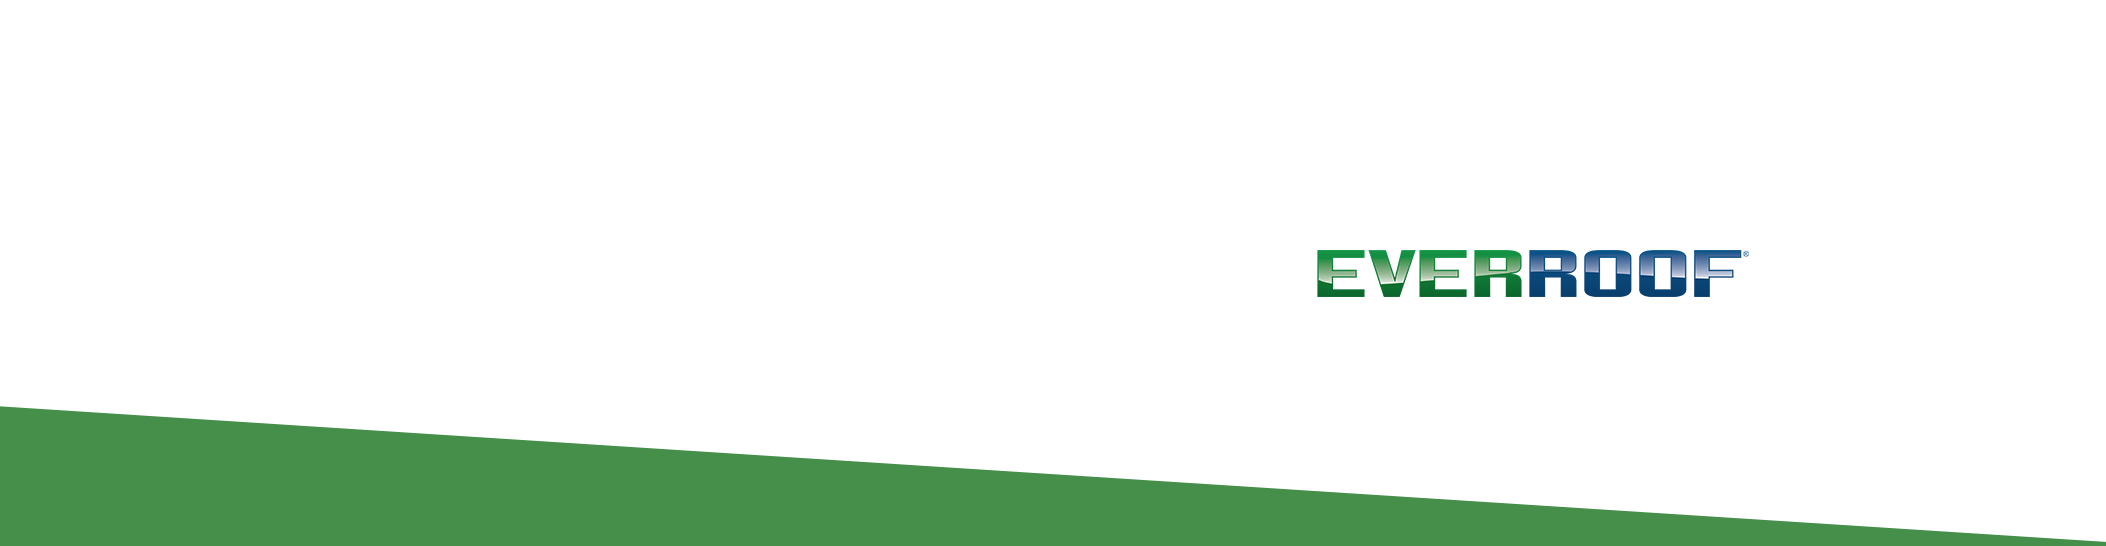
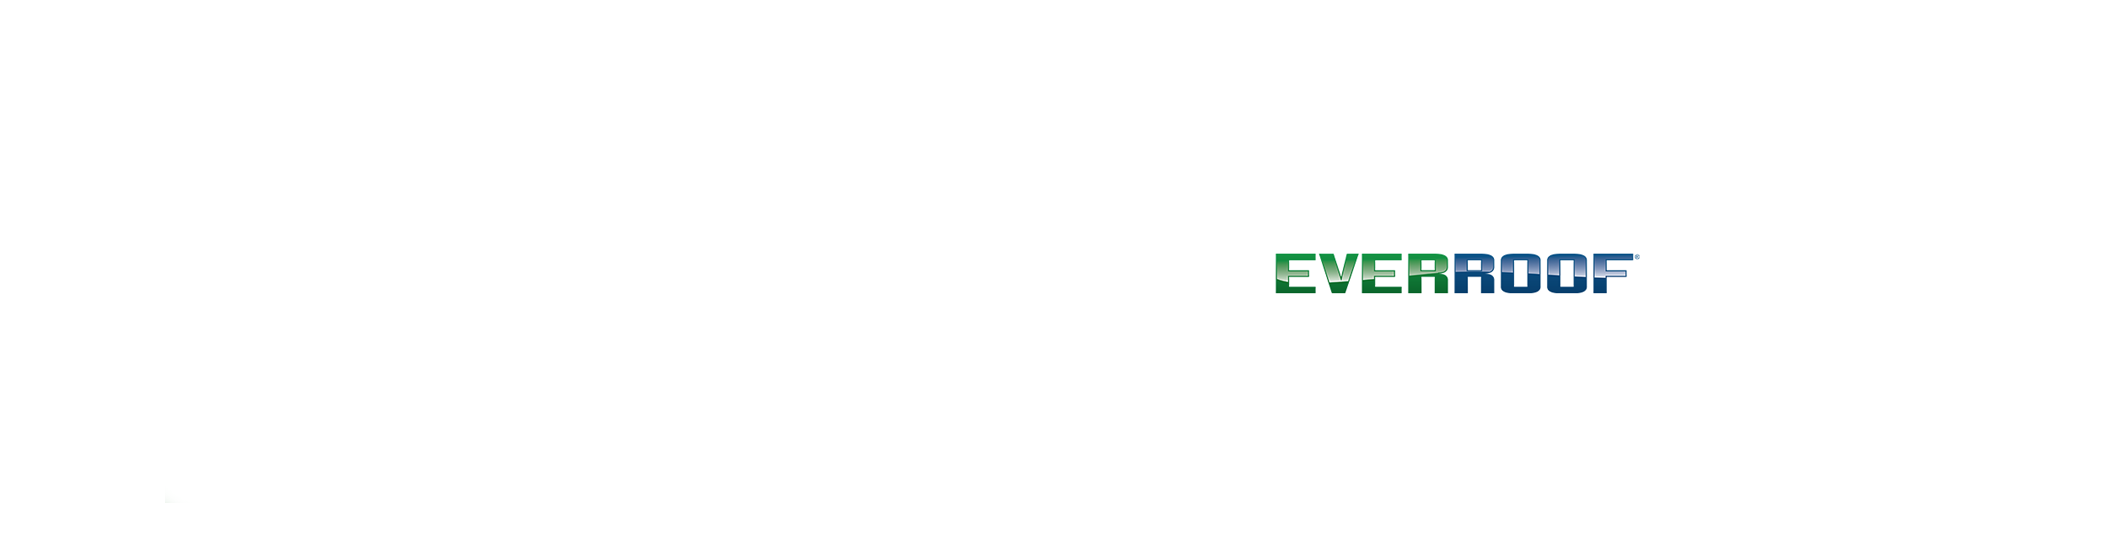
footer fix

Changed region(s): [[0.0, 0.7473, 1.0, 1.0], [0.5864, 0.4359, 0.8333, 0.5604]]

diff --git a/everroof-color-chart.html b/everroof-color-chart.html
@@ -784,76 +784,76 @@ hr.solid {
   
   
   
-  
   <footer class="section footer-classic context-dark footer-classic-2 bg-image novi-background">
-    <div class="footer-classic-content">
-      <div class="container">
-        <div class="row row-50 row-lg-0 no-gutters">
-          <div class="col-sm-6 col-lg-4 wow fadeInRight" data-wow-delay="0s">
-            <div class="footer-classic-header">
-              <h6 class="footer-classic-title">Quick links</h6>
-            </div>
-            <div class="footer-classic-body">
-              <ul class="footer-classic-list d-inline-block d-sm-block">
-                <li><a href="about-us.html">About Us</a></li>
-                <li><a href="everroof-urethanes-products.html">Urethanes</a></li>
-                <li><a href="everroof-silicone-products.html">Silicones</a></li>
-                <li><a href="everroof-acrylics-products.html">Acrylic</a></li>
-                <li><a href="everroof-primer-products.html">Primers</a></li>
-<!--<li><a href="everroof-fiberaccessories-products.html">Fabrics &amp; Accessories</a></li>-->
-                <li><a href="concrete_roof_systems.html">System Substrate</a></li>
-                <li><a href="er-drawings.html">Drawings</a></li>
-                <li><a href="er-video-youtube.html">Videos</a></li>
-                <li><a href="everroof-project-gallery.html">Photos</a></li>
-                <li><a href="tech-links.html">Tech Links</a></li>
-                <li><a href="warranty-form.html">Warranty</a></li>
-                <li><a href="contacts.html">Contact Us</a></li>
-                <!-- <li><a href="blog-post.html">Blog Spot</a></li> -->
-              </ul>
-             
-            </div>
-          </div>
-          <div class="col-sm-6 col-lg-4 wow fadeInRight" data-wow-delay=".1s">
-            <div class="footer-classic-header">
-              <div class="box-width-230">
-                <h6 class="footer-classic-title">Get in touch</h6>
+      <div class="footer-classic-content">
+        <div class="container">
+          <div class="row row-50 row-lg-0 no-gutters">
+            <div class="col-sm-6 col-lg-4 wow fadeInRight" data-wow-delay="0s">
+              <div class="footer-classic-header">
+                <h6 class="footer-classic-title">Quick links</h6>
+              </div>
+              <div class="footer-classic-body">
+                <ul class="footer-classic-list d-inline-block d-sm-block">
+                  <li><a href="about-us.html">About Us</a></li>
+                  <li><a href="everroof-urethanes-products.html">Urethanes</a></li>
+                  <li><a href="everroof-silicone-products.html">Silicones</a></li>
+                  <li><a href="everroof-acrylics-products.html">Acrylic</a></li>
+                  <li><a href="everroof-primer-products.html">Primers</a></li>
+  <!--<li><a href="everroof-fiberaccessories-products.html">Fabrics &amp; Accessories</a></li>-->
+                  <li><a href="concrete_roof_systems.html">System Substrate</a></li>
+                  <!-- <li><a href="everroof-color-chart.html">Color Chart</a></li> -->
+                  <li><a href="er-drawings.html">Drawings</a></li>
+                  <li><a href="er-video-youtube.html">Videos</a></li>
+                  <li><a href="everroof-project-gallery.html">Photos</a></li>
+                  <li><a href="tech-links.html">Tech Links</a></li>
+                  <li><a href="warranty-form.html">Warranty</a></li>
+                  <li><a href="contacts.html">Contact Us</a></li>
+                  <!-- <li><a href="blog-post.html">Blog Spot</a></li> -->
+                </ul>
+               
               </div>
             </div>
-            <div class="footer-classic-body">
-              <div class="box-width-230">
-                <div class="footer-classic-contacts">
-                  <div class="footer-classic-contacts-item">
-                    <div class="unit unit-spacing-sm align-items-center">
-                      <div class="unit-left"><span class="novi-icon icon icon-24 mdi mdi-phone"></span></div>
-                      <div class="unit-body"><a class="phone" href="tel:#">+1 833-383-7766</a></div>
-                    </div>
-                  </div>
-                  <div class="footer-classic-contacts-item">
-                    <div class="unit unit-spacing-sm align-items-center">
-                      <div class="unit-left"><span class="novi-icon icon mdi mdi-email"></span></div>
-                      <div class="unit-body"><a class="mail" href="contacts.html">Email Us</a></div>
-                    </div>
-                  </div>
+            <div class="col-sm-6 col-lg-4 wow fadeInRight" data-wow-delay=".1s">
+              <div class="footer-classic-header">
+                <div class="box-width-230">
+                  <h6 class="footer-classic-title">Get in touch</h6>
                 </div>
-                <a class="button button-sm button-primary button-winona" style = "color: #ffffff; background: #0A9143; border-color: #0A9143;" href="contacts.html">Request a quote</a> <ul class="list-inline footer-social-list">
-                  <li><a class="icon novi-icon mdi mdi-facebook" href="https://www.facebook.com/Everroof-Products-161169374289318/" target="_blank"></a></li>
-                  <li><a class="icon novi-icon mdi mdi-linkedin" href="https://www.linkedin.com/company/everroof/" target="_blank"></a></li>
-                </ul></div>
+              </div>
+              <div class="footer-classic-body">
+                <div class="box-width-230">
+                  <div class="footer-classic-contacts">
+                    <div class="footer-classic-contacts-item">
+                      <div class="unit unit-spacing-sm align-items-center">
+                        <div class="unit-left"><span class="novi-icon icon icon-24 mdi mdi-phone"></span></div>
+                        <div class="unit-body"><a class="phone" href="tel:#">+1 833-383-7766</a></div>
+                      </div>
+                    </div>
+                    <div class="footer-classic-contacts-item">
+                      <div class="unit unit-spacing-sm align-items-center">
+                        <div class="unit-left"><span class="novi-icon icon mdi mdi-email"></span></div>
+                        <div class="unit-body"><a class="mail" href="contacts.html">Email Us</a></div>
+                      </div>
+                    </div>
+                  </div>
+                  <a class="button button-sm button-primary button-winona" style = "color: #ffffff; background: #0A9143; border-color: #0A9143;" href="contacts.html">Request a quote</a> <ul class="list-inline footer-social-list">
+                    <li><a class="icon novi-icon mdi mdi-facebook" href="https://www.facebook.com/Everroof-Products-161169374289318/" target="_blank"></a></li>
+                    <li><a class="icon novi-icon mdi mdi-linkedin" href="https://www.linkedin.com/company/everroof/" target="_blank"></a></li>
+                  </ul></div>
+              </div>
             </div>
-          </div>
-          <div class="col-lg-4 position-static">
-            
+            <div class="col-lg-4 position-static">
+              
+            </div>
           </div>
         </div>
       </div>
-    </div>
-    <div class="footer-classic02 novi-background">
-      <div class="container">
-        <p class="rights"><span></span><a href="terms-and-conditions.html"></a>©2025&nbsp;Everroof <a href="privacy-policy.html">Privacy Policy</a> or <a href="terms-and-conditions.html">Terms &amp; Conditions</a></p>
+      <div class="footer-classic-panel novi-background">
+        <div class="container">
+          <p class="rights"><span></span><a href="terms-and-conditions.html"></a>©2025&nbsp;Everroof <a href="privacy-policy.html">Privacy Policy</a> or <a href="terms-and-conditions.html">Terms &amp; Conditions</a></p>
+        </div>
       </div>
-    </div>
-  </footer>
-</div>
+    </footer>
+
 <div class="snackbars" id="form-output-global"></div>
 <script src="js/core.min.js"></script><script src="js/script.js"></script>
 </body>

diff --git a/epdm_roof_systems.html b/epdm_roof_systems.html
@@ -14,6 +14,10 @@
 <link rel="stylesheet" href="css/style.css">
 <link rel="stylesheet" href="css/novi.css">
 <style>
+.footer-classic-2{
+  background:url('images/bg-footer-1.png') !important;
+  background-repeat:no-repeat;
+}
   #ui-to-top{
     background: #0A9143;
     color: #ffffff;
@@ -548,7 +552,7 @@
     </div>
     <div class="footer-classic-panel novi-background">
       <div class="container">
-        <p class="rights"><span></span><a href="terms-and-conditions.html"></a>©2019&nbsp;Everroof <a href="privacy-policy.html">Privacy Policy</a> or <a href="terms-and-conditions.html">Terms &amp; Conditions</a></p>
+        <p class="rights"><span></span><a href="terms-and-conditions.html"></a>©2025&nbsp;Everroof <a href="privacy-policy.html">Privacy Policy</a> or <a href="terms-and-conditions.html">Terms &amp; Conditions</a></p>
       </div>
     </div>
   </footer>
